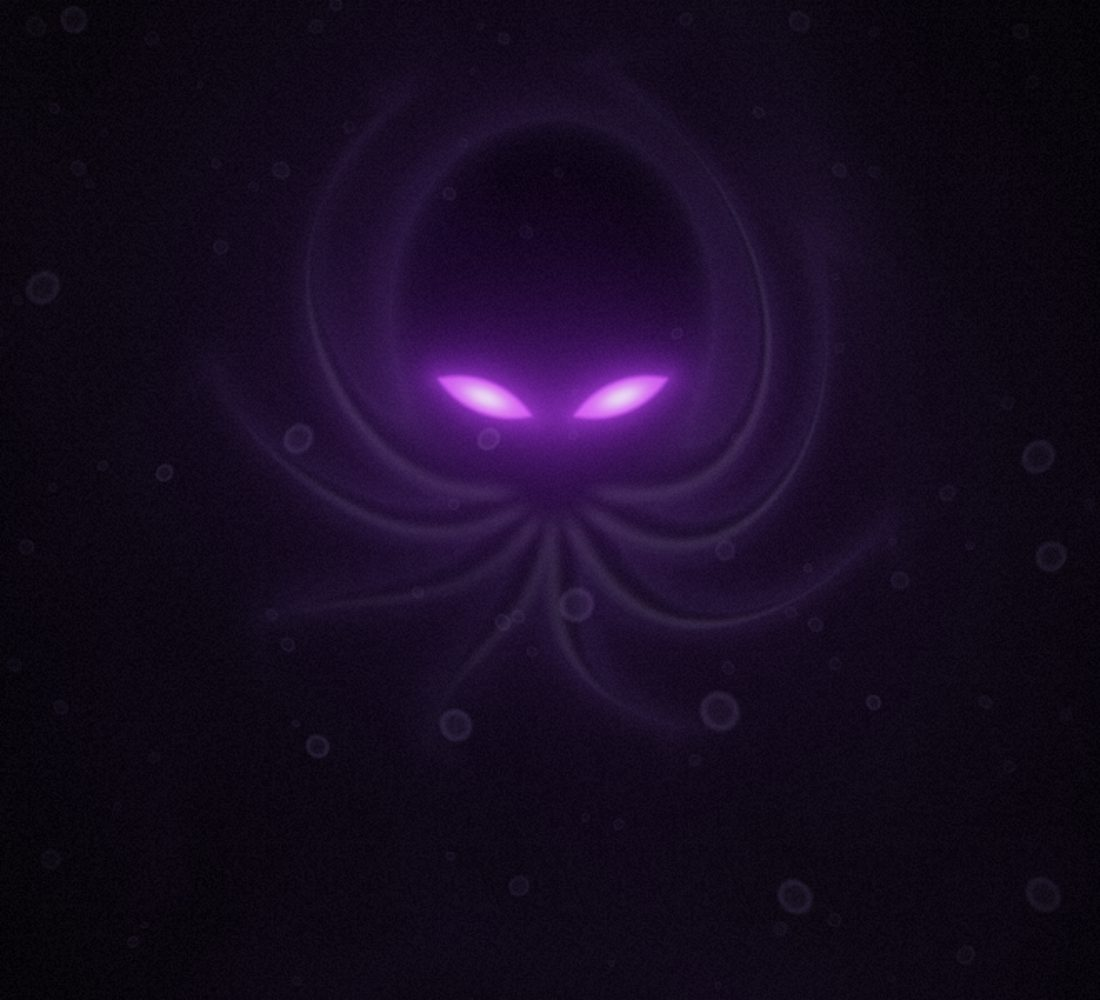
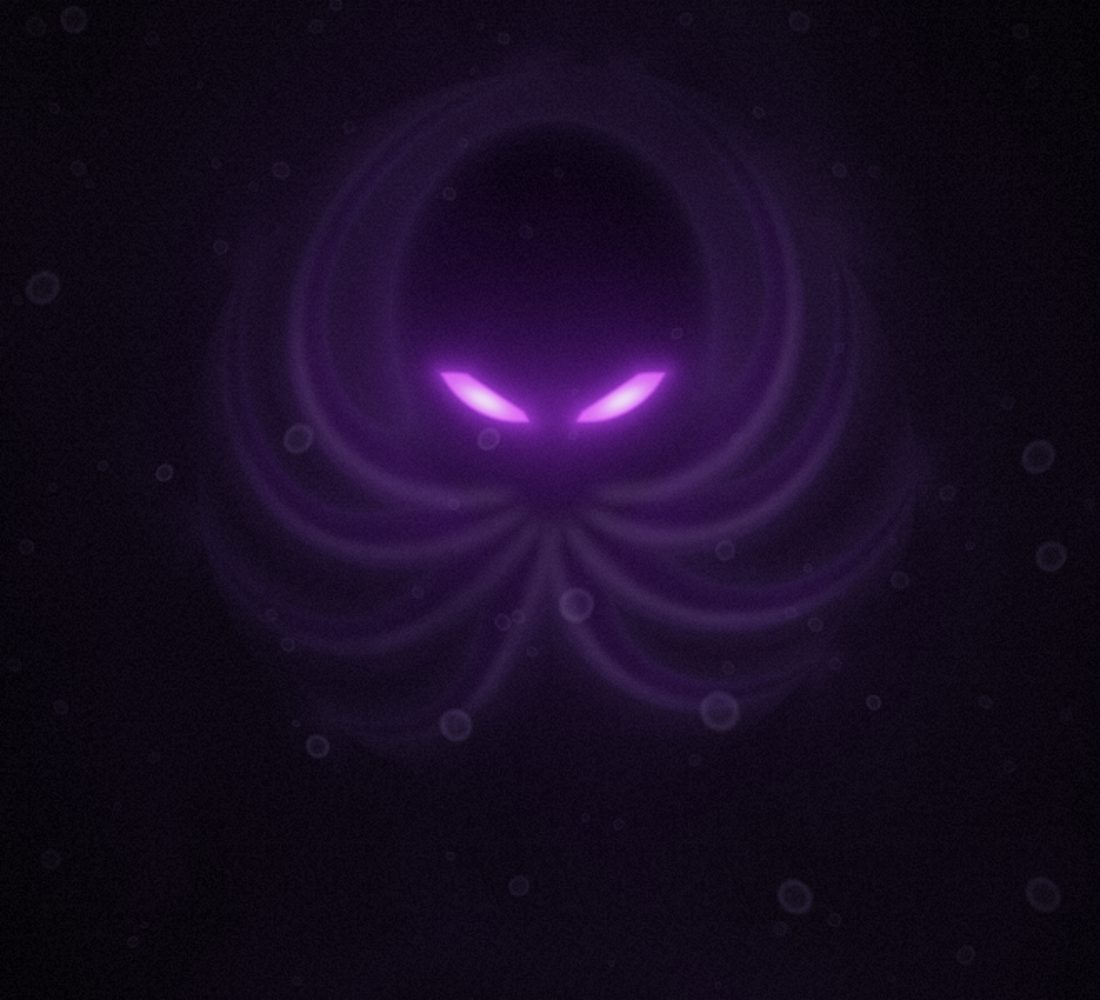
edits

diff --git a/components/deep/shader.ts b/components/deep/shader.ts
@@ -39,51 +39,69 @@ float sdVesica(vec2 p, float r, float d){
 vec3 eye(vec2 p, vec2 c, float side, float open, float glow, inout float mask){
   vec2 q = p - c;
   q.x *= side;
-  float a = 0.38; // inner corner dips toward the centre
+  float a = 0.5; // inner corner dips toward the centre: the angry V
   q = mat2(cos(a), -sin(a), sin(a), cos(a)) * q;
   float o = max(open, 0.035);
   float sx = 0.72 + 0.28 * smoothstep(0.0, 0.7, o); // lids shorten the eye as they close
   float d = sdVesica(vec2(q.y / o, q.x / sx), 0.0856, 0.0706) * min(o, sx);
-  vec2 hc = q - vec2(uLook.x * side * 0.013, uLook.y * 0.0045 * o);
-  vec2 hs = hc / vec2(0.024, 0.0095 * o + 0.001);
+  // a straight brow cuts the top, steeper still toward the centre: a scowl, not a stare
+  d = max(d, (q.y - (0.0085 + 0.09 * q.x) * o) * 0.996);
+  vec2 hc = q - vec2(uLook.x * side * 0.013, uLook.y * 0.0045 * o - 0.003 * o);
+  vec2 hs = hc / vec2(0.024, 0.0085 * o + 0.001);
   float core = exp(-dot(hs, hs));
-  float inside = smoothstep(0.0045, -0.003, d);
+  float inside = smoothstep(0.0035, -0.0025, d);
   mask = max(mask, inside);
   // the halo shrinks with the lids, so a blink reads as a blink, not a flare
   float lid = smoothstep(0.05, 0.6, o);
-  float nearG = exp(-max(d, 0.0) * 62.0) * (0.35 + 0.65 * lid);
+  float nearG = exp(-max(d, 0.0) * 85.0) * (0.35 + 0.65 * lid);
   float farG = exp(-max(d, 0.0) * 11.0) * lid;
   vec3 violet = vec3(0.62, 0.16, 1.0);
-  vec3 halo = violet * (nearG * 0.9 + farG * 0.26) * glow;
-  vec3 iris = mix(violet * 1.7, vec3(1.0, 0.95, 1.0), core) * inside * (0.9 + 0.9 * core) * glow;
+  vec3 halo = violet * (nearG * 1.05 + farG * 0.26) * glow;
+  vec3 iris = mix(violet * 1.8, vec3(1.0, 0.95, 1.0), core) * inside * (0.95 + 0.95 * core) * glow;
   return halo + iris;
 }
 
-// Eight arms fanning from under the mantle; returns distance, writes the white "logo stroke".
-float tentacles(vec2 p, vec2 O, float t, out float stroke){
+// How far an arm has swung at distance r from its root: it spreads, then the tip hooks up and out.
+// The inner arms get the strongest hook so every tip ends curling upward, like the logo.
+float armCurl(float r, float len, float j, float fi, float side, float t){
+  float u = clamp(r / len, 0.0, 1.0);
+  float u2 = u * u;
+  return side * ((0.12 + j * 0.5) * u2 + (0.55 - 0.15 * j) * u2 * u2 * u)
+       + 0.16 * sin(r * 10.0 - t * (0.62 + 0.1 * j) + fi * 1.9) * u
+       + 0.05 * sin(t * 0.45 + fi);
+}
+
+// Eight heavy arms fanning from under the mantle; returns distance, writes the white "logo stroke".
+float tentacles(vec2 p, vec2 O, float t, out float stroke, out float vol){
   vec2 q = p - O;
   float r = length(q);
   float th = atan(q.y, q.x);
   float d = 1e3;
   stroke = 0.0;
+  vol = 0.0;
   for (int i = 0; i < 8; i++){
     float fi = float(i);
     float side = i < 4 ? -1.0 : 1.0;
     float j = mod(fi, 4.0);
     float base = -PI * 0.5 + side * (0.2 + j * 0.39);
-    float len = 0.29 + 0.05 * sin(fi * 3.1) + j * 0.035;
+    float len = 0.29 + 0.05 * sin(fi * 3.1) + j * 0.035 + 0.045 * (1.0 - j / 3.0); // inner arms longer: the hook costs them reach
     float u = clamp(r / len, 0.0, 1.0);
-    float curl = side * (0.12 + j * 0.5) * u * u
-               + 0.24 * sin(r * 13.0 - t * (0.75 + 0.12 * j) + fi * 1.9) * u
-               + 0.05 * sin(t * 0.45 + fi);
+    float curl = armCurl(r, len, j, fi, side, t);
     float da = th - (base + curl);
     da = mod(da + PI, 2.0 * PI) - PI;
-    float w = 0.034 * pow(1.0 - u, 0.85) + 0.003;
-    float dd = abs(da) * r - w;
+    // measure across the arm, not around the circle, so the curled parts keep their full thickness
+    float slope = (armCurl(r + 0.004, len, j, fi, side, t) - curl) / 0.004 * r;
+    float across = da * r / sqrt(1.0 + slope * slope);
+    // muscular: full through the upper arm with a swell, then a blunt taper
+    float w = 0.036 * pow(1.0 - u, 0.55) * (1.0 + 0.25 * exp(-pow((u - 0.28) * 4.5, 2.0))) + 0.005;
+    float dd = abs(across) - w;
     if (r > len) dd = max(dd, r - len);
     d = min(d, dd);
-    float s = (da * r + side * w * 0.35) / (0.25 * w + 0.002);
+    float s = (across + side * w * 0.35) / (0.25 * w + 0.002);
     stroke = max(stroke, exp(-s * s) * smoothstep(len, len * 0.55, r) * smoothstep(0.03, 0.07, r));
+    // roundness across the arm, so each one reads as a solid limb rather than an outline
+    float c = clamp(across / w, -1.0, 1.0);
+    vol = max(vol, (1.0 - c * c) * smoothstep(len, len * 0.7, r) * smoothstep(0.05, 0.12, r));
   }
   return d;
 }
@@ -132,8 +150,8 @@ void main(){
   col += vec3(0.2, 0.09, 0.32) * w1 * w1 * 0.32;
 
   // the body: mantle + arms, a silhouette darker than the water
-  float stroke;
-  float dT = tentacles(p, C + vec2(0.0, -0.075), t, stroke);
+  float stroke, vol;
+  float dT = tentacles(p, C + vec2(0.0, -0.075), t, stroke, vol);
   float dH = sdEll(p - (C + vec2(0.0, 0.085)), vec2(0.168, 0.2) * breath);
   float body = smin(dH, dT, 0.05);
   float bw = 0.012 + 0.03 * uScroll;
@@ -141,6 +159,8 @@ void main(){
   vec3 skin = vec3(0.008, 0.005, 0.014) + deep * 0.16 * fbm(p * 7.0 + vec2(0.0, t * 0.04));
   skin += violet * 0.13 * exp(-length((p - C) * vec2(1.0, 1.6)) * 10.0);
   col = mix(col, skin, sil * 0.93);
+  // light caught in the round of each arm, faint, so they stay translucent
+  col += mix(deep, violet, 0.45) * vol * 0.17 * smoothstep(-0.005, 0.03, dH) * (1.0 - 0.5 * uScroll);
   col += vec3(0.62, 0.45, 0.95) * exp(-abs(body + 0.006) * 60.0) * (0.09 + 0.05 * sin(t * 0.6));
   col += vec3(0.85, 0.8, 1.0) * stroke * 0.11 * (1.0 - uScroll);
 

diff --git a/components/deep/lqip.ts b/components/deep/lqip.ts
@@ -1,3 +1,3 @@
 // Tiny blurred copy of /media/deep-poster.jpg, inlined so the hero is never black while the poster loads.
 // Written by tools/deep-poster.mjs — re-run it after changing the shader.
[2 lines of base64/hex data omitted]
